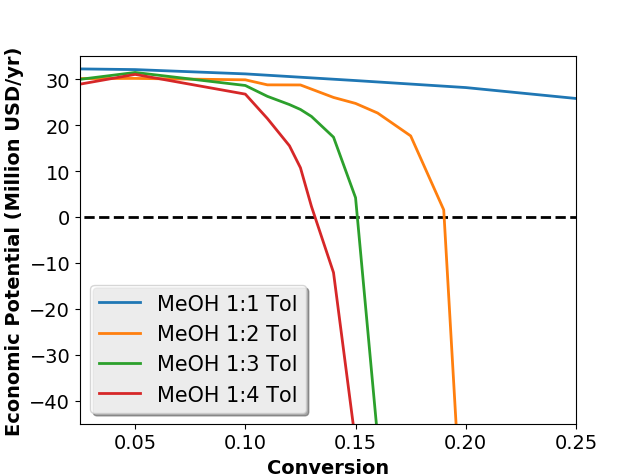
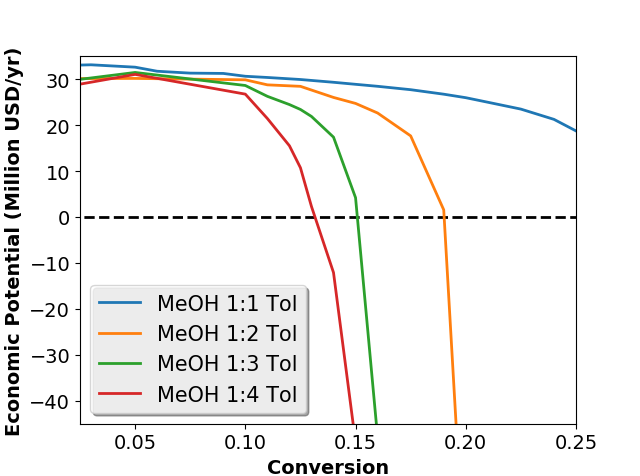
Final

Changed region(s): [[0.2188, 0.1471, 0.9062, 0.2647], [0.125, 0.1176, 0.2188, 0.1471], [0.875, 0.2647, 0.9062, 0.2941]]

diff --git a/level2_plot.py b/level2_plot.py
@@ -25,12 +25,12 @@ def scenario():
 
     # Plot Graph
     fig, ax = plt.subplots(2, 1)
-    ax[1].plot(in_out[:,1], in_out[:,0]/1000000, label="In/Out", color="darkorange", linewidth=3.5)
-    ax[0].plot(rec_only[:,1], rec_only[:,0]/1000000, label="Recycle Only", color="forestgreen", linewidth=3.5)
-    ax[1].plot(rec_only[:,1], rec_only[:,0]/1000000, label="Recycle Only", color="forestgreen", linewidth=3.5)
-    ax[0].plot(pmfuel[:,1], pmfuel[:,0]/1000000, label="Recycle + Xylene Fuel", color = "royalblue", linewidth=3.5)
-    ax[1].plot(pmfuel[:, 1], pmfuel[:,0]/1000000, label="Recycle + Xylene Fuel", color="royalblue", linewidth=3.5)
-    ax[1].plot(mefuel[:,1], mefuel[:,0]/1000000, label = "Methanol Fuel", color = "crimson", linewidth=3.5)
+    ax[1].plot(in_out[:,1], in_out[:,0]/1000000, label="In/Out (Case 1)", color="darkorange", linewidth=3.5)
+    ax[0].plot(rec_only[:,1], rec_only[:,0]/1000000, label="Recycle Only (Case 2)", color="forestgreen", linewidth=3.5)
+    ax[1].plot(rec_only[:,1], rec_only[:,0]/1000000, label="Recycle Only (Case 2)", color="forestgreen", linewidth=3.5)
+    ax[1].plot(mefuel[:,1], mefuel[:,0]/1000000, label = "Toluene Recycle + Methanol Fuel (Case 3)", color = "crimson", linewidth=3.5)
+    ax[0].plot(pmfuel[:,1], pmfuel[:,0]/1000000, label="Recycle + Xylene Fuel (Case 4)", color = "royalblue", linewidth=3.5)
+    ax[1].plot(pmfuel[:, 1], pmfuel[:,0]/1000000, label="Recycle + Xylene Fuel (Case 4)", color="royalblue", linewidth=3.5)
     ax[0].set_ylim([0, 40])
     ax[0].set_xlim([0.025, 0.35])
     ax[0].set_xticklabels([])
@@ -42,7 +42,7 @@ def scenario():
     ax[1].set_xlim([0.025, 0.35])
     ax[0].axhline(ep1, linestyle='--', color='black', label='EP1', linewidth=3.5)
     ax[1].axhline(ep1, linestyle='--', color='black', label='EP1')
-    ax[1].legend(loc='upper center', bbox_to_anchor=(0.5, 2.3), ncol=3, fancybox=True, shadow=True, fontsize=28)
+    ax[1].legend(loc='upper center', bbox_to_anchor=(0.5, 2.3), ncol=3, fancybox=True, shadow=True, fontsize=25)
     fig.text(0.04, 0.5, "Economic Potential (Million USD/yr)", va='center', rotation='vertical', fontsize=30, fontweight='bold')
     fig.text(0.5, 0.04, "Conversion", ha='center', fontsize=30, fontweight='bold')
     plt.subplots_adjust(hspace=0)
@@ -115,10 +115,10 @@ plt.show()
 
 # -------------------------------Feed Ratio comparison with EP---------------------------------
 def feed_ratio_ep():
-    one = pd.read_excel("Data/new graph seyoung 04032020.xlsx", sheet_name="Sheet1", usecols='A:B', nrows=7).to_numpy()
-    two = pd.read_excel("Data/new graph seyoung 04032020.xlsx", sheet_name="Sheet1", usecols='A:B', nrows=13, skiprows=40).to_numpy()
-    three = pd.read_excel("Data/new graph seyoung 04032020.xlsx", sheet_name="Sheet1", usecols='A:B', nrows=11, skiprows=24).to_numpy()
-    four = pd.read_excel("Data/new graph seyoung 04032020.xlsx", sheet_name="Sheet1", usecols='A:B', nrows=10, skiprows=10).to_numpy()
+    one = pd.read_excel("Data/LEVEL 3 excel.xlsx", sheet_name="EP2 vary feed ratio", usecols='A:B', nrows=20).to_numpy()
+    two = pd.read_excel("Data/LEVEL 3 excel.xlsx", sheet_name="EP2 vary feed ratio", usecols='A:B', nrows=13, skiprows=23).to_numpy()
+    three = pd.read_excel("Data/LEVEL 3 excel.xlsx", sheet_name="EP2 vary feed ratio", usecols='A:B', nrows=11, skiprows=39).to_numpy()
+    four = pd.read_excel("Data/LEVEL 3 excel.xlsx", sheet_name="EP2 vary feed ratio", usecols='A:B', nrows=10, skiprows=53).to_numpy()
 
     plt.plot(one[:, 0] / 100, one[:, 1] / 1000000, label="MeOH 1:1 Tol")
     plt.plot(two[:, 0] / 100, two[:, 1] / 1000000, label="MeOH 1:2 Tol")

diff --git a/level3_plot.py b/level3_plot.py
@@ -83,15 +83,15 @@ def ada_iso():
     sevensix = df.loc[10].to_numpy()
     seveneight = df.loc[11].to_numpy()
 
-    plt.plot(cov, sixsix / 1000000, label="660K", color = 'blue')
-    plt.plot(cov, sixeight / 1000000, label="680K", color = 'aqua')
-    plt.plot(cov, sevenzero / 1000000, label="700K", color = 'darkgreen')
-    plt.plot(cov, seventwo / 1000000, label="720K", color = 'limegreen')
-    plt.plot(cov, sevenfour / 1000000, label="740K", color = 'yellow')
-    plt.plot(cov, sevensix / 1000000, label="760K", color = 'darkorange')
-    plt.plot(cov, seveneight / 1000000, label="780K", color = 'red')
+    plt.plot(cov, sixsix / 1000000, label="Adiabatic 660K", color = 'blue')
+    plt.plot(cov, sixeight / 1000000, label="Adiabatic 680K", color = 'aqua')
+    plt.plot(cov, sevenzero / 1000000, label="Adiabatic 700K", color = 'darkgreen')
+    plt.plot(cov, seventwo / 1000000, label="Adiabatic 720K", color = 'limegreen')
+    plt.plot(cov, sevenfour / 1000000, label="Adiabatic 740K", color = 'yellow')
+    plt.plot(cov, sevensix / 1000000, label="Adiabatic 760K", color = 'darkorange')
+    plt.plot(cov, seveneight / 1000000, label="Adiabatic 780K", color = 'red')
 
-    plt.plot(iso[:, 2] / 100, iso[:, 0] / 1000000, linestyle='--', label="Isothermal", color = 'indigo')
+    plt.plot(iso[:, 2] / 100, iso[:, 0] / 1000000, linestyle='--', label="Isothermal 730K", color = 'indigo')
     plt.hlines(0,0,100,linestyles="-")
     plt.legend(loc = 'lower left')
     plt.xlim([0, 0.30])
@@ -100,5 +100,4 @@ def ada_iso():
     plt.xlabel("Conversion")
     plt.show()
 
-
-heating_method()
+ada_iso()

diff --git a/level4_plot.py b/level4_plot.py
@@ -17,8 +17,8 @@ plt.rcParams['lines.linewidth'] = 2
 #---------------- Graphs ------------------
 def f1():
 	df = pd.read_excel("Data/Separation Unit Sensitivity.xlsx", sheet_name="Flashes", usecols='A:H', skiprows=1).to_numpy()
-	plt.plot(df[:, 0], df[:, 6]*100, label="Ethylene Distillate")
-	plt.plot(df[:, 0], df[:, 7]*100, label="Methanol Recovery")
+	plt.plot(df[:, 0], df[:, 6]*100, label="Ethylene Vapour")
+	plt.plot(df[:, 0], df[:, 7]*100, label="Methanol Liquid")
 	plt.ylabel("Recovery (%)")
 	plt.xlabel("Temperatrue (°C)")
 	plt.legend()
@@ -26,8 +26,8 @@ def f1():
 
 def f2():
 	df = pd.read_excel("Data/Separation Unit Sensitivity.xlsx", sheet_name="Flashes", usecols='K:R', skiprows=1).to_numpy()
-	plt.plot(df[:, 0], df[:, 6]*100, label="Ethylene Distillate")
-	plt.plot(df[:, 0], df[:, 7]*100, label="Methanol Recovery")
+	plt.plot(df[:, 0], df[:, 6]*100, label="Ethylene Vapour")
+	plt.plot(df[:, 0], df[:, 7]*100, label="Methanol Liquid")
 	plt.ylabel("Recovery (%)")
 	plt.xlabel("Temperatrue (°C)")
 	plt.legend()
@@ -214,4 +214,5 @@ def crys():
 	plt.subplots_adjust(left = 0.15)
 	plt.show()
 #-------------- Execute -------------------
-crys()
+f1()
+f2()
